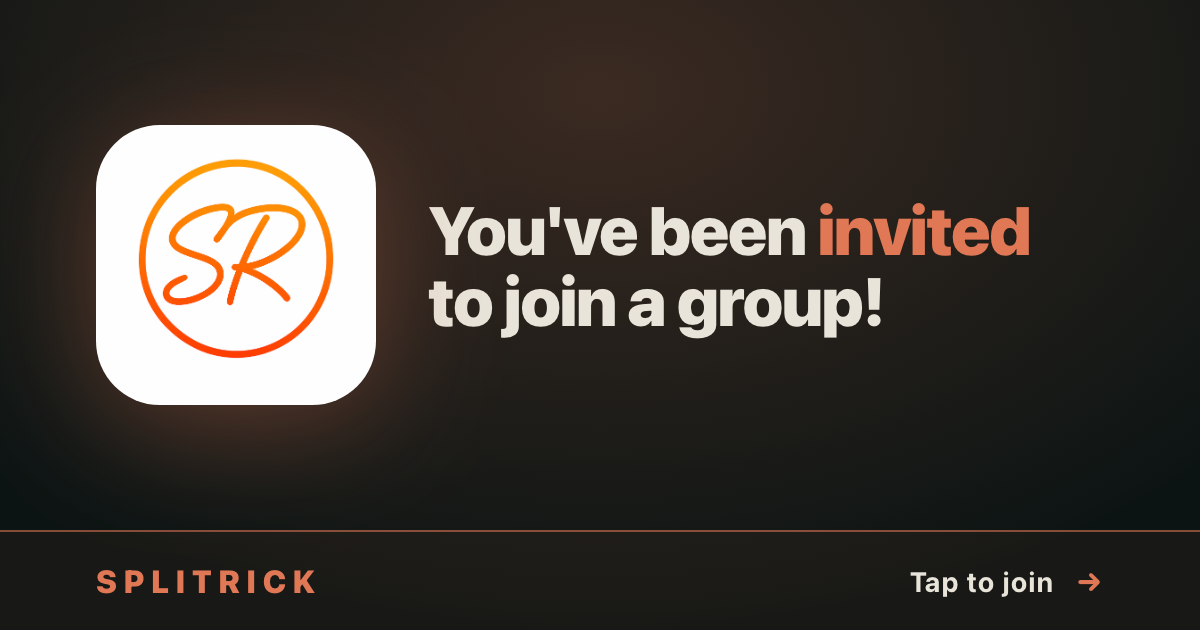
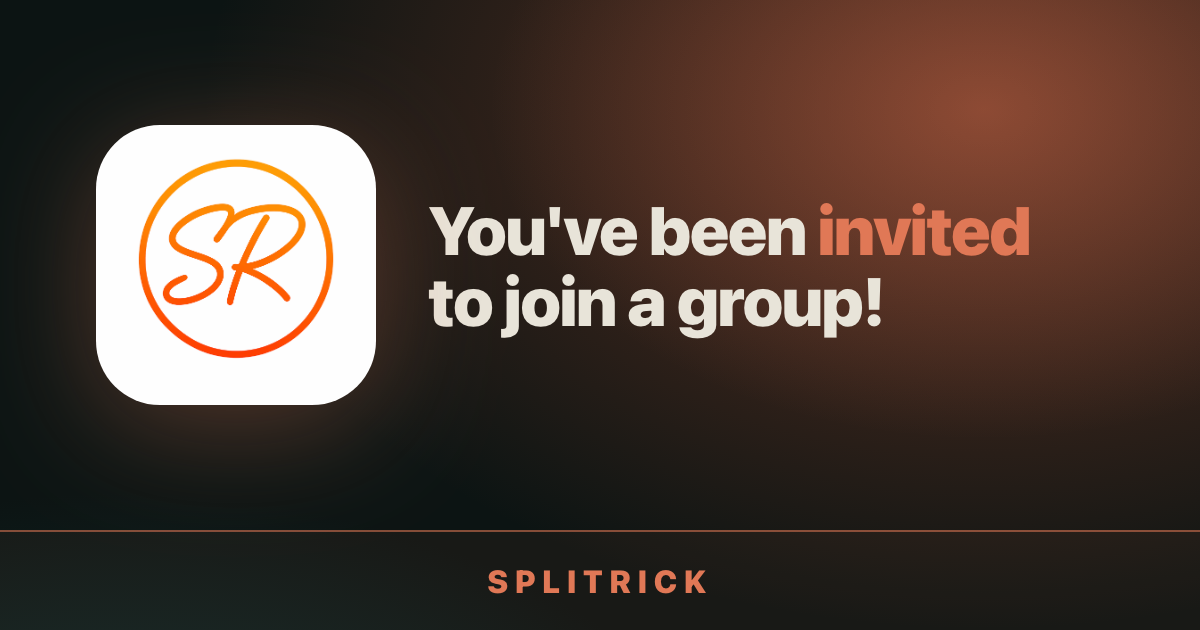
editing web

diff --git a/og-invite.html b/og-invite.html
@@ -50,11 +50,14 @@
       color: #E8E4D9;
     }
     body {
-      /* Single warm highlight up top, flat dark below — keeps the
-         footer strip legible instead of washed out by a second
-         gradient. */
+      /* Layered radial gradients. The terracotta highlight uses a
+         deeper rust base (#A64A2E) layered under the brighter #E07856
+         so the mid-fade reads as warm earth rather than washing into
+         bright orange. Teal wash in the bottom-left balances it. */
       background:
-        radial-gradient(1400px 900px at 50% 10%, rgba(224,120,86,.22), transparent 60%),
+        radial-gradient(900px 600px at 82% 12%, rgba(224,120,86,.35), transparent 55%),
+        radial-gradient(1200px 800px at 82% 12%, rgba(166,74,46,.55), transparent 65%),
+        radial-gradient(1100px 700px at 10% 100%, rgba(15,61,62,.85), transparent 60%),
         #0C1413;
       display: flex;
       flex-direction: column;
@@ -88,12 +91,14 @@
     h1 .accent {
       color: #E07856;
     }
-    /* Footer pinned at the bottom of the flex column. */
+    /* Footer pinned at the bottom of the flex column. Centered
+       wordmark anchors the card's bottom edge visually so the PNG
+       ends on intentional content rather than empty space. */
     .footer {
       flex: 0 0 100px;
       display: flex;
       align-items: center;
-      justify-content: space-between;
+      justify-content: center;
       padding: 0 96px;
       box-sizing: border-box;
       border-top: 2px solid rgba(224, 120, 86, 0.55);
@@ -106,17 +111,6 @@
       color: #E07856;
       text-transform: uppercase;
     }
-    .cta {
-      font-size: 28px;
-      font-weight: 700;
-      letter-spacing: 0.04em;
-      color: #E8E4D9;
-    }
-    .cta .arrow {
-      color: #E07856;
-      margin-left: 14px;
-      font-weight: 900;
-    }
   </style>
 </head>
 <body>
@@ -126,7 +120,6 @@
   </div>
   <div class="footer">
     <div class="wordmark">SplitRick</div>
-    <div class="cta">Tap to join <span class="arrow">&rarr;</span></div>
   </div>
 </body>
 </html>
